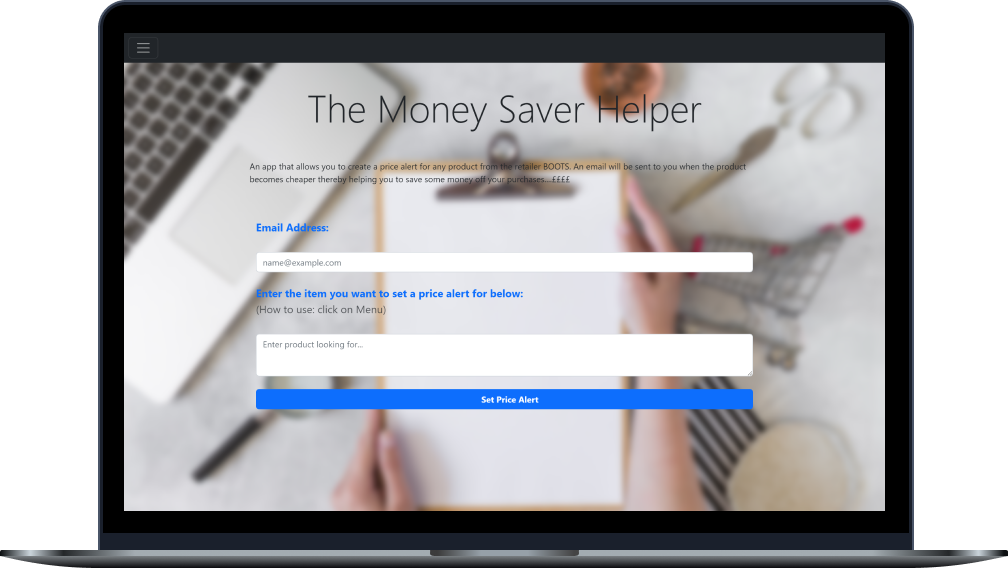
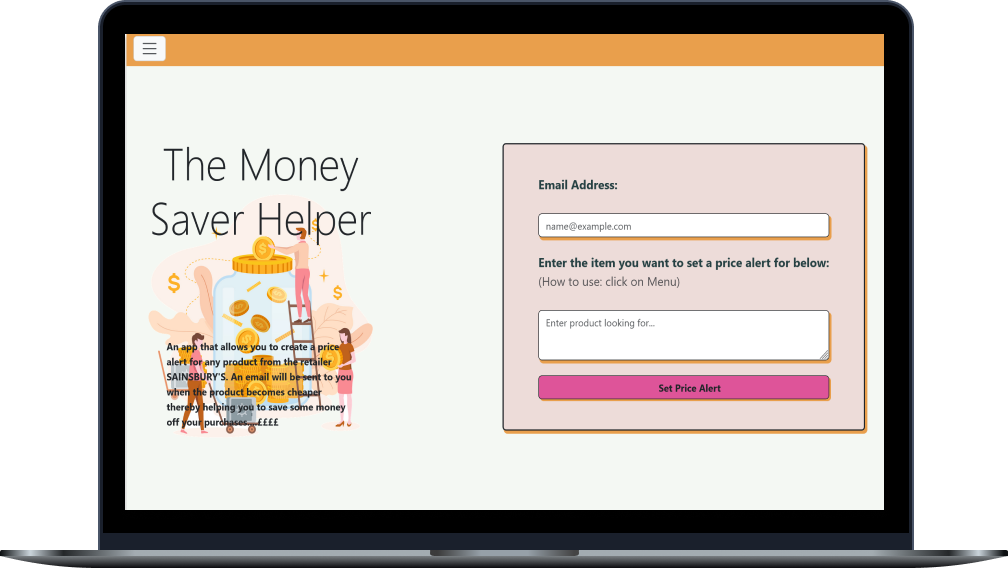
update

diff --git a/src/Components/LandingPage/LandingPage.module.scss b/src/Components/LandingPage/LandingPage.module.scss
@@ -17,6 +17,7 @@
         font-weight: 200;
         line-height: 1.6;
         margin-left: 6rem;
+        height: 300px;
     }
 }
 
